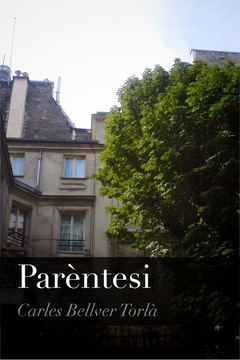
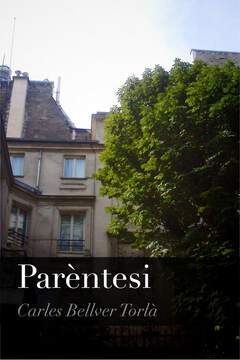
update 2022-03-05 13:11:20

diff --git a/themes/presbyopia/layouts/_default/list.html b/themes/presbyopia/layouts/_default/list.html
@@ -1,6 +1,6 @@
 {{ define "main" }}
     {{ if .Parent }}
-      {{ if and (ne .Parent.Name "Posts") (ne .Parent.Name .Site.Title) }}
+      {{ if and (ne .Parent.Name "Posts")  (ne .Parent.Name .Site.Title) }}
         <nav class="post-navigation">
           <a  href="{{ .Parent.Permalink }}" title="{{ .Parent.Title }}">{{ .Parent.Name }}</a>
         </nav>

diff --git a/themes/presbyopia/static/css/style.css b/themes/presbyopia/static/css/style.css
@@ -382,7 +382,7 @@ article:last-of-type {
 }
 
 .post-navigation a {
-    color: var(--pagination-link-color);
+    color: var(--link-color);
     margin-left: 2em;
 }
 

diff --git a/content/llibres/parentesi/_index.md b/content/llibres/parentesi/_index.md
@@ -8,7 +8,7 @@ image = "cover_medium.jpg"
 template = "llibre"
 +++
 
-<img src="/llibres/parentesi/cover_medium.jpg" style="max-width: 25%; width: 200px; height: auto; float: right; margin: 0 0 0 1em;" />
+<img src="/llibres/parentesi/cover_small.jpg" style="max-width: 25%; width: 200px; height: auto; float: right; margin: 0 0 0 1em;" />
 
 El 4 de novembre de 2007, Charles Beauvoir escriu a Carles Bellver per encomanar-li la publicació dels seus diaris. Tot i que l’escriptor no se sent obligat, ni de bon tros, a executar l’excèntrica voluntat de Beauvoir, hi farà un cop d’ull, en llegirà les primeres frases i, en un tres i no res, la curiositat el vençerà. Les anotacions s'iniciem el setembre de 2001, quan Beauvoir va marxar de París a Szohôd, capital de la república imaginària de Bordúria, per exercir com a professor visitant en una denominada "Escola d'Alts Estudis". I acaben el maig de l'any següent, quan va fugir del país a corre-cuita, esglaiat per la situació d'amenaça bèl·lica que s'hi vivia. *Parèntesi* és també el nou llibre de relats de Carles Bellver Torlà, en el qual la potència narrativa del castellonenc —que evoca els noms de Pere Calders, Joan Perucho, H. P. Lovecraft o Boris Vian— arriba a la seva cota més alta. En els contes de Bellver, s’entrellacen elements de realitat i de ficció i es juga constantment amb el caràcter fantàstic dels personatges i de les històries (aquesta vegada unides de manera que el llibre sembli una novel·la, gairebé una *Bildungsroman*). Et convidem a la descoberta d’una de les veus més singulars de la nostra narrativa actual.
 

diff --git a/content/llibres/lanitmildos/_index.md b/content/llibres/lanitmildos/_index.md
@@ -7,7 +7,7 @@ image = "cover_medium.jpg"
 template = "llibre"
 +++
 
-<img src="/llibres/lanitmildos/cover_medium.jpg" style="max-width: 25%; width: 200px; height: auto; float: right; margin: 0 0 0 1em;" />
+<img src="/llibres/lanitmildos/cover_small.jpg" style="max-width: 25%; width: 200px; height: auto; float: right; margin: 0 0 0 1em;" />
 
 «Posa’t al costat dret del vagó i estigues alerta un minut després de Jaume I». Aquest cop, l’enigmàtic Charles Beauvoir ha citat Carles Bellver en una estació fantasma del metro de Barcelona, la de Correus, tancada des de 1972. Tot i que el metro no s’hi atura, Bellver té la sensació d’haver-hi vist algú. Un cop al carrer, un noiet vestit de grum li dóna un missatge amb instruccions i l’adreça d’un bar. Allà el cambrer li lliurarà una memòria USB amb una nota enganxada: «No pense escriure més. T’ho vaig dir i t’ho repetisc. Açò és tot el que tinc. Pots fer-ne el que vulguis.» La memòria conté una seqüència de fitxers de so numerats, etiquetats amb data i hora: els soliloquis d’una nit d’insomni, entre la mitjanit i les set del matí, al llarg de la qual Beauvoir, a manera de Xahrazad, explica en veu baixa les històries de *La nit mil dos*.
 

diff --git a/content/llibres/elllibredetopics/_index.md b/content/llibres/elllibredetopics/_index.md
@@ -7,7 +7,7 @@ image = "cover_medium.jpg"
 template = "llibre"
 +++
 
-<img src="/llibres/elllibredetopics/cover_medium.jpg" style="max-width: 25%; width: 200px; height: auto; float: right; margin: 0 0 0 1em;" />
+<img src="/llibres/elllibredetopics/cover_small.jpg" style="max-width: 25%; width: 200px; height: auto; float: right; margin: 0 0 0 1em;" />
 
 La inesperada aparició d’un manuscrit que connecta Lovecraft amb l’inventor de la bomba atòmica. Els riscos de casar-se per catàleg. A un professor de Miskatonic li ixen tentacles al cap. Un altre tipus, un dia es desperta en una habitació desconeguda. En una casa de Castelló hi ha una entrada a l’infern. En un museu de Vilafamés s’exhibeix cada dia un objecte impossible. Una bestiola quasi humana, o fins i tot massa humana. Un aparell per veure a distància. La història secreta del *Tombatossals*… Vint relats breus de Carles Bellver, calculadament ambigus uns o francament fantàstics uns altres. Inquietants o còmics segons com es miri: això ja depèn del lector.
 

diff --git a/content/llibres/lovecraftycia/_index.md b/content/llibres/lovecraftycia/_index.md
@@ -7,7 +7,7 @@ image = "cover_medium.jpg"
 template = "llibre"
 +++
 
-<img src="/llibres/lovecraftycia/cover_medium.jpg" style="max-width: 25%; width: 200px; height: auto; float: right; margin: 0 0 0 1em;" />
+<img src="/llibres/lovecraftycia/cover_small.jpg" style="max-width: 25%; width: 200px; height: auto; float: right; margin: 0 0 0 1em;" />
 
 H. P. Lovecraft y su círculo están presentes en la mitad de las páginas de este libro. En la otra mitad nos encontramos a Robert W. Chambers (*El rey de amarillo*), a J. R. R. Tolkien y a su amigo C. S. Lewis, a un pintor y místico ruso llamado Nikolai Roerich, al Jacques Bergier de *El retorno de los brujos* y a Julius Schwartz, que fue agente literario de Lovecraft y Ray Bradbury y luego editor de tebeos en DC.
 

diff --git a/content/llibres/uncelnouiunaterranova/_index.md b/content/llibres/uncelnouiunaterranova/_index.md
@@ -8,7 +8,7 @@ image = "cover_medium.jpg"
 template = "llibre"
 +++
 
-<img src="/llibres/uncelnouiunaterranova/cover_medium.jpg" style="max-width: 25%; width: 200px; height: auto; float: right; margin: 0 0 0 1em;" />
+<img src="/llibres/uncelnouiunaterranova/cover_small.jpg" style="max-width: 25%; width: 200px; height: auto; float: right; margin: 0 0 0 1em;" />
 
 Premi de narrativa breu Josep Pascual Tirado 2015.
 

diff --git a/content/llibres/lavidacanina/_index.md b/content/llibres/lavidacanina/_index.md
@@ -7,7 +7,7 @@ image = "cover_medium.jpg"
 template = "llibre"
 +++
 
-<img src="/llibres/lavidacanina/cover_medium.jpg" style="max-width: 25%; width: 200px; height: auto; float: right; margin: 0 0 0 1em;" />
+<img src="/llibres/lavidacanina/cover_small.jpg" style="max-width: 25%; width: 200px; height: auto; float: right; margin: 0 0 0 1em;" />
 
 Premi de narrativa Vila d’Almassora 2004.
 
